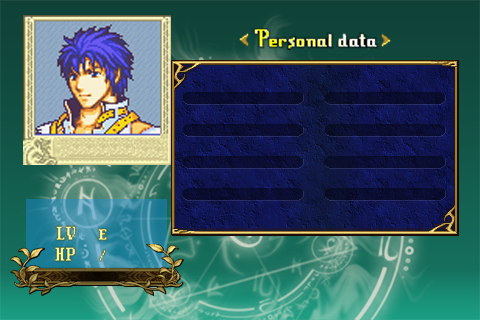
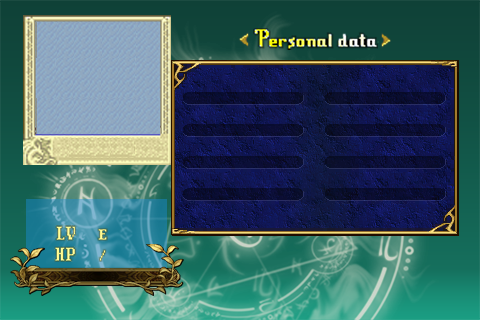
never gonna give you up

Changed region(s): [[0.0625, 0.0625, 0.3438, 0.4375]]

diff --git a/FantasyEmblem/clases/EstadoPer.cpp b/FantasyEmblem/clases/EstadoPer.cpp
@@ -15,11 +15,14 @@ using namespace std;
 using namespace sf;
 
 EstadoPer* EstadoPer::pinstance = 0;
-EstadoPer* EstadoPer::Instance(Mapa* map, Aliadas** al, Enemigo** ene, Cofre** cofr, int *indice,bool *turno)
+EstadoPer* EstadoPer::Instance(Mapa* map, Aliadas** al, Enemigo** ene, Cofre** cofr, int *indice,bool *turno, Aliadas* alis)
 {
     if(pinstance==0)
     {
-        pinstance=new EstadoPer(map,al,ene,cofr,indice,turno);
+        pinstance=new EstadoPer(map,al,ene,cofr,indice,turno,alis);
+    }
+    else{
+        pinstance->index=indice;
     }
     return pinstance;
 }
@@ -30,11 +33,11 @@ EstadoPer::EstadoPer()
 }
 
 
-EstadoPer::EstadoPer(Mapa* map, Aliadas** al, Enemigo** ene, Cofre** cofr, int *indice, bool *turno)
+EstadoPer::EstadoPer(Mapa* map, Aliadas** al, Enemigo** ene, Cofre** cofr, int *indice, bool *turno, Aliadas* alis)
 {
     
     texturaMenu=new Texture();
-    
+    retrato= new Sprite();
     menu= new Sprite();
     reloj=new Clock();
     reloj2=new Clock();
@@ -47,6 +50,7 @@ EstadoPer::EstadoPer(Mapa* map, Aliadas** al, Enemigo** ene, Cofre** cofr, int *
     stats=new Text();
     stats1=new Text();
     
+    alia=alis;
     cont=0;
     m=map;
     ali=al;
@@ -60,6 +64,7 @@ EstadoPer::EstadoPer(Mapa* map, Aliadas** al, Enemigo** ene, Cofre** cofr, int *
 
 EstadoPer::~EstadoPer() {
     
+    delete retrato;
     delete stats;
     delete stats1;
     delete clase;
@@ -87,7 +92,10 @@ void EstadoPer::init_State()
     
     menu->setTexture(*texturaMenu);
     
-
+    retrato= new Sprite(alia->getSpriteEvadir());
+    retrato->setOrigin(0,0);
+    retrato->setPosition(37,16);
+    
     
     /*posicionar sprites*/
     menu->setOrigin(0,0);
@@ -106,7 +114,7 @@ void EstadoPer::mostrarDatos(){
     //Tipo 0: Aliado
     //Tipo 1: Enemigo
         std::stringstream ss_stats;
-        ss_stats << ali[0]->getNombre();
+        ss_stats << alia->getNombre();
         
         //std::string s_stats = new std::string(ss_stats.str());
         std::string s_stats = ss_stats.str();
@@ -119,7 +127,7 @@ void EstadoPer::mostrarDatos(){
         t_stats->setPosition(65,135);
         
         std::stringstream levell;
-        levell << ali[0]->getLvl() << "  " << ali[0]->getExp() ;
+        levell << alia->getLvl() << "  " << alia->getExp() ;
         //ali[0]->getHP() << ""<< ali[0]->getPV();
          
         
@@ -134,7 +142,7 @@ void EstadoPer::mostrarDatos(){
         level->setPosition(83,224);
         
         std::stringstream vidal;
-        vidal<< ali[0]->getHP() << " "<< ali[0]->getPV();
+        vidal<< alia->getHP() << " "<< alia->getPV();
         
          
         
@@ -149,7 +157,7 @@ void EstadoPer::mostrarDatos(){
         vida->setPosition(80,245);
         
         std::stringstream clasel;
-        clasel<< ali[0]->getClase();
+        clasel<< alia->getClase();
         
          
         
@@ -168,10 +176,10 @@ void EstadoPer::mostrarStats(){
     std::stringstream ss_stats;
         ss_stats <<   
                
-                "HP:   " << ali[0]->getHP() << "\n" << "\n" <<
-                "Str:  " << ali[0]->getFuerza() << "\n" << "\n" <<
-                "Mag:  " << ali[0]->getMagia() << "\n" << "\n" <<
-                "Hab:  " << ali[0]->getHab() << "\n" << "\n" 
+                "HP:   " << alia->getHP() << "\n" << "\n" <<
+                "Str:  " << alia->getFuerza() << "\n" << "\n" <<
+                "Mag:  " << alia->getMagia() << "\n" << "\n" <<
+                "Hab:  " << alia->getHab() << "\n" << "\n" 
                /* "Velocidad: " << ali[0]->getVel() << "\n" <<
                 "Defensa: " << ali[0]->getDef() << "\n" <<
                 "Defensa mag: " << ali[0]->getDefm() << "\n" <<
@@ -189,10 +197,10 @@ void EstadoPer::mostrarStats(){
          std::stringstream ss_stats1;
         ss_stats1 <<   
                
-                "Spd:  " << ali[0]->getVel() << "\n" << "\n" <<
-                "Def:  " << ali[0]->getDef() << "\n" << "\n" <<
-                "Res:  " << ali[0]->getDefm() << "\n" << "\n" <<
-                "Rng:   " << ali[0]->getRango();
+                "Spd:  " << alia->getVel() << "\n" << "\n" <<
+                "Def:  " << alia->getDef() << "\n" << "\n" <<
+                "Res:  " << alia->getDefm() << "\n" << "\n" <<
+                "Rng:   " << alia->getRango();
         
         std::string s_stats1 = ss_stats1.str();
 
@@ -215,6 +223,7 @@ void EstadoPer::render_State()
     Juego::Instance()->getVentana()->draw(*clase);
     Juego::Instance()->getVentana()->draw(*stats);
     Juego::Instance()->getVentana()->draw(*stats1);
+    Juego::Instance()->getVentana()->draw(*retrato);
     Juego::Instance()->renderText();
     Juego::Instance()->getVentana()->display();
 }

diff --git a/FantasyEmblem/clases/SubirNivel.cpp b/FantasyEmblem/clases/SubirNivel.cpp
@@ -35,6 +35,8 @@ SubirNivel::SubirNivel(){
 
 SubirNivel::SubirNivel(Aliadas* ali, Enemigo* ene) {
     
+    nivel= new Texture();
+    nivel1=new Sprite();
     reloj = new Clock();
     evento = new Event();
     fondoBata = new Texture();
@@ -71,6 +73,8 @@ SubirNivel::SubirNivel(Aliadas* ali, Enemigo* ene) {
 
 SubirNivel::~SubirNivel() {
     
+    delete nivel;
+    delete nivel1;
     delete level;
     delete level1;
     delete up;
@@ -126,6 +130,16 @@ void SubirNivel::init_State(){
         std::cerr << "Error cargando la imagen mas1.png";
         exit(0);
     }
+    
+    if (!nivel->loadFromFile("resources/level.png"))
+    {
+        std::cerr << "Error cargando la imagen level.png";
+        exit(0);
+    }
+    
+    nivel1->setTexture(*nivel);
+    nivel1->setOrigin(0,0);
+    nivel1->setPosition(135,40);
     
     mas1->setTexture(*mas);
     mas1->setOrigin(0,0);
@@ -281,6 +295,7 @@ void SubirNivel::render_State(){
     Juego::Instance()->getVentana()->draw(*barraExp);
     Juego::Instance()->getVentana()->draw(*clase);
     Juego::Instance()->getVentana()->draw(*mas1);
+    Juego::Instance()->getVentana()->draw(*nivel1);
     Juego::Instance()->getVentana()->display();
 }
 
@@ -361,6 +376,7 @@ void SubirNivel::update_State(){
             if(cont==5){
                 alia->subirNivel();
                 up1->play();
+                nivel1->setScale(0,0);
                // mas1->setPosition(200,146);
             }
             if(aux1<=80){
@@ -430,6 +446,7 @@ void SubirNivel::update_State(){
             if(cont==5){
                 up1->play();
                 alia->subirNivel();
+                nivel1->setScale(0,0);
                // mas1->setPosition(200,146);
             }
             if(aux1<=55){
@@ -499,6 +516,7 @@ void SubirNivel::update_State(){
             if(cont==5){
                 up1->play();
                 alia->subirNivel();
+                nivel1->setScale(0,0);
                // mas1->setPosition(200,146);
             }
             if(aux1<=50){

diff --git a/FantasyEmblem/headers/EstadoPer.h b/FantasyEmblem/headers/EstadoPer.h
@@ -31,14 +31,14 @@ using namespace sf;
 
 class EstadoPer:public Estado {
 public:
-    static EstadoPer* Instance(Mapa* map, Aliadas** al, Enemigo** ene, Cofre** cofr, int *indice,bool *turno);
+    static EstadoPer* Instance(Mapa* map, Aliadas** al, Enemigo** ene, Cofre** cofr, int *indice,bool *turno, Aliadas* alis);
     void input();
     void mostrarDatos();
     void mostrarStats();
     
 protected:
     EstadoPer();
-    EstadoPer(Mapa* map, Aliadas** al, Enemigo** ene, Cofre** cofr, int *indice,bool *turno);
+    EstadoPer(Mapa* map, Aliadas** al, Enemigo** ene, Cofre** cofr, int *indice,bool *turno, Aliadas* alis);
     ~EstadoPer();        
 private:
     static EstadoPer* pinstance;
@@ -54,7 +54,7 @@ private:
     sf::Text* clase;
     sf::Text* stats;
     sf::Text* stats1;
-
+    sf::Sprite* retrato;
     sf::Sprite *menu;
     sf::Clock *reloj;
     sf::Clock *reloj2;
@@ -65,6 +65,7 @@ private:
     Aliadas **ali;//array de unidades aliadas proveniente del escenario
     Enemigo **enem;//array de unidades enemigas proveniete del escenario
     Cofre **cof;
+    Aliadas* alia;
     int *index;//indice de la unidad aliada seleccionada
 };
 

diff --git a/FantasyEmblem/clases/Escenario.cpp b/FantasyEmblem/clases/Escenario.cpp
@@ -67,12 +67,12 @@ Escenario::Escenario(const char* nombremapa) {
     spriteTurnoUsu = new Sprite();
     spriteAbrirPuerta = new Sprite();
     
-    int atri[] = { 20, 9, 1, 19, 9, 6, 4};
+    int atri[] = { 20, 9, 1, 19, 19, 6, 4};
     
     cofres=mapa->getCofres();
     enemigos=mapa->getEnemigos();
-    aliadas[0] = new Aliadas("Alberto", "Espadachin", atri, 8, 5, "Mapa_espadachin_azul.png","ike.png" ,"evadirblack.png",95);
-    aliadas[1] = new Aliadas("Albertina", "Espadachin", atri, 8, 5, "Mapa_espadachin_azul.png","ike.png" ,"evadirblack.png",0);
+    aliadas[0] = new Aliadas("Alberto", "Espadachin", atri, 8, 5, "Mapa_espadachin_azul.png","ike.png" ,"retrato1.png",95);
+    aliadas[1] = new Aliadas("Albertina", "Arquero", atri, 8, 5, "Mapa_espadachin_azul.png","ike.png" ,"retrato2.png",0);
 
     
     pause_open = new SoundBuffer();

diff --git a/FantasyEmblem/clases/MenuAcciones.cpp b/FantasyEmblem/clases/MenuAcciones.cpp
@@ -269,7 +269,7 @@ void MenuAcciones::teclaIntro(){
     }else if(numMenu == 3){
         if(cont==0){
             //estado
-           Juego::Instance()->ponerEstadoPersonaje(m,ali,enem,cof,index,turnoUsu);
+           Juego::Instance()->ponerEstadoPersonaje(m,ali,enem,cof,index,turnoUsu,ali[*index]);
 
            cursorActivo=true;
         }
@@ -383,7 +383,7 @@ void MenuAcciones::teclaIntro(){
 
         if(cont==1){
             //estado
-           Juego::Instance()->ponerEstadoPersonaje(m,ali,enem,cof,index,turnoUsu);
+           Juego::Instance()->ponerEstadoPersonaje(m,ali,enem,cof,index,turnoUsu,ali[*index]);
 
            cursorActivo=true;
         }

diff --git a/FantasyEmblem/headers/Juego.h b/FantasyEmblem/headers/Juego.h
@@ -62,7 +62,7 @@ public:
     void ponerEstadoGameOver();
     void ponerEstadoObjetos(Mapa* map, Aliadas** al, Enemigo** ene, Cofre** cofr, int *indice, bool *turno);
     void ponerEstadoObjetosSeleccionado(Mapa* map, Aliadas** al, Enemigo** ene, Cofre** cofr, int *indice, bool *turno);
-    void ponerEstadoPersonaje(Mapa* map, Aliadas** al, Enemigo** ene, Cofre** cofr, int *indice, bool *turno);
+    void ponerEstadoPersonaje(Mapa* map, Aliadas** al, Enemigo** ene, Cofre** cofr, int *indice, bool *turno, Aliadas* alis);
     void ponerEstadoSumaExp(Aliadas* ali, Enemigo* ene, int i);
     void ponerEstadoSubirNivel(Aliadas* ali, Enemigo* ene);
     

diff --git a/FantasyEmblem/clases/Juego.cpp b/FantasyEmblem/clases/Juego.cpp
@@ -162,9 +162,9 @@ void Juego::ponerEstadoObjetosSeleccionado(Mapa* map, Aliadas** al, Enemigo** en
 {
     states.push_back(ObjetoSeleccionado::Instance(map,al,ene,cofr,indice,turno));
 }
-void Juego::ponerEstadoPersonaje(Mapa* map, Aliadas** al, Enemigo** ene, Cofre** cofr, int *indice,bool *turno)
+void Juego::ponerEstadoPersonaje(Mapa* map, Aliadas** al, Enemigo** ene, Cofre** cofr, int *indice,bool *turno,Aliadas* alis)
 {
-    states.push_back(EstadoPer::Instance(map,al,ene,cofr,indice,turno));
+    states.push_back(EstadoPer::Instance(map,al,ene,cofr,indice,turno,alis));
 }
 
 /*

diff --git a/FantasyEmblem/clases/Unidad.cpp b/FantasyEmblem/clases/Unidad.cpp
@@ -77,7 +77,7 @@ Unidad::Unidad(const char* name, const char* clas, int atributo[],int nivel, int
     }
 
     spriteEvadir->setTexture(*textEvadir);
-    spriteEvadir->setTextureRect(IntRect(0,0,248,160));
+    
 
     mueve = false;
     //spriteUnidad->setPosition(176,176);

diff --git a/FantasyEmblem/headers/SubirNivel.h b/FantasyEmblem/headers/SubirNivel.h
@@ -92,6 +92,8 @@ private:
     sf::Sound* level1;
     sf::SoundBuffer* up;
     sf::Sound* up1;
+    sf::Texture* nivel;
+    sf::Sprite* nivel1;
     Aliadas* alia; 
     Enemigo* enem;
     int exp;
